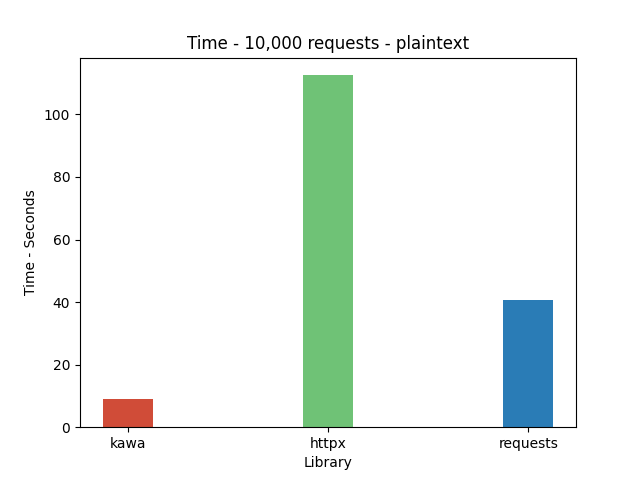
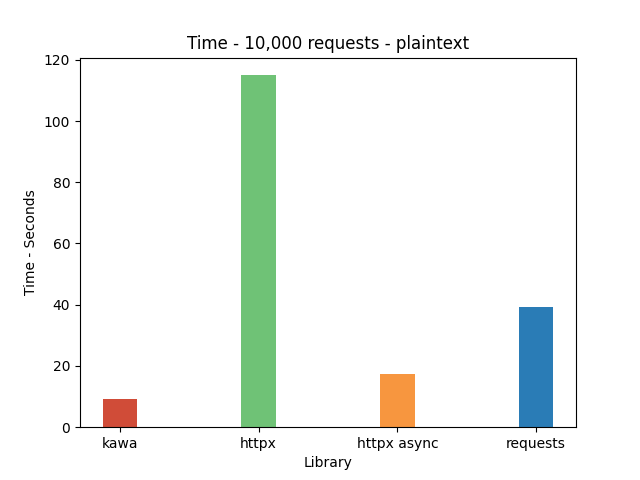
include httpx's async client in the benchmarks

diff --git a/tests/client/benchmarks.py b/tests/client/benchmarks.py
@@ -1,4 +1,6 @@
 import timeit
+import time
+import asyncio
 
 import kawa
 import requests
@@ -22,22 +24,44 @@ def benchmark_time_for_x_requests():
 
     kawa_time = timeit.timeit(kawa_request, number=NUMBER)
     requests_time = timeit.timeit(requests_request, number=NUMBER)
+    print("Now timing httpx") # i need this to tell the difference between the async and sync times
     httpx_time = timeit.timeit(httpx_request, number=NUMBER)
+
+    httpx_async_client = httpx.AsyncClient()
+
+    async def httpx_async_time() -> float:
+        start = time.time()
+        for _ in range(NUMBER):
+            response = await httpx_async_client.request("GET", "http://127.0.0.1:8080")
+            print(f"{response} async")
+        end = time.time()
+
+        await httpx_async_client.aclose()
+
+        return end - start
+
+    print("Event loop being retrieved")
+    loop = asyncio.new_event_loop()
+    print("Now timing async httpx")
+    httpx_async_result = loop.run_until_complete(httpx_async_time())
 
     print(f"Benchmark for: {NUMBER:,} requests:")
 
     print("Kawa:", kawa_time)
     print("Requests: ", requests_time)
     print("HTTPX: ", httpx_time)
+    print("HTTPX async:", httpx_async_result)
 
     print("Kawa is {}x faster than requests".format(round(requests_time / kawa_time)))
     print("Kawa is {}x faster than httpx".format(round(httpx_time / kawa_time)))
+    print("Kawa is {}x faster than httpx async".format(round(httpx_async_result / kawa_time)))
 
     make_chart(
         name="Time - 10,000 requests",
         requests_time=requests_time,
         kawa_time=kawa_time,
         httpx_time=httpx_time,
+        httpx_async_time=httpx_async_result,
         benchmark_type="plaintext"
     )
 
@@ -70,24 +94,46 @@ def benchmark_time_for_x_json_requests():
         response = httpx.request("GET", "http://127.0.0.1:8080", json=payload)
         print(response)
 
+    httpx_async_client = httpx.AsyncClient()
+
+    async def httpx_async_time() -> float:
+        start = time.time()
+        for _ in range(NUMBER):
+            response = await httpx_async_client.request("GET", "http://127.0.0.1:8080", json=payload)
+            print(f"{response} async")
+        end = time.time()
+
+        await httpx_async_client.aclose()
+
+        return end - start
+
     kawa_time = timeit.timeit(kawa_request, number=NUMBER)
     requests_time = timeit.timeit(requests_request, number=NUMBER)
+    print("Now timing httpx")
     httpx_time = timeit.timeit(httpx_request, number=NUMBER)
+
+    print("Event loop being retrieved")
+    loop = asyncio.new_event_loop()
+    print("Now timing async httpx")
+    httpx_async_result = loop.run_until_complete(httpx_async_time())
 
     print(f"Benchmark for json: {NUMBER:,} requests - {payload_size} bytes size payload:")
 
     print("Kawa:", kawa_time)
     print("Requests: ", requests_time)
     print("HTTPX: ", httpx_time)
+    print("HTTPX async: ", httpx_async_result)
     
     print("Kawa is {}x faster than requests".format(round(requests_time / kawa_time)))
     print("Kawa is {}x faster than httpx".format(round(httpx_time / kawa_time)))
+    print("Kawa is {}x faster than httpx async".format(round(httpx_async_result / kawa_time)))
 
     make_chart(
         "Time - 10,000 requests",
         requests_time=requests_time,
         kawa_time=kawa_time,
         httpx_time=httpx_time,
+        httpx_async_time=httpx_async_result,
         benchmark_type="json"
     )
 
@@ -96,15 +142,16 @@ def make_chart(
     requests_time: float,
     kawa_time: float,
     httpx_time: float,
+    httpx_async_time: float,
     benchmark_type: str
 ):
     import matplotlib.pyplot as plt
 
     plt.bar(
-        ["kawa", "httpx", "requests"],
-        [kawa_time, httpx_time, requests_time],
+        ["kawa", "httpx", "httpx async", "requests"],
+        [kawa_time, httpx_time, httpx_async_time, requests_time],
         width=0.25,
-        color=["#D04C38", "#6FC276", "#2A7CB6"]
+        color=["#D04C38", "#6FC276", "#F7963F", "#2A7CB6"]
     )
     plt.xlabel("Library")
     plt.ylabel("Time - Seconds")
